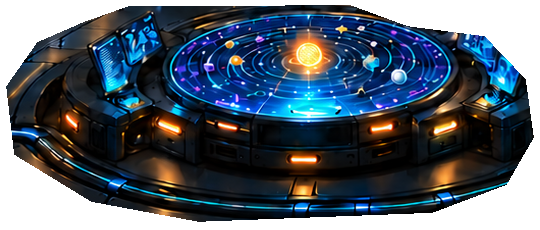
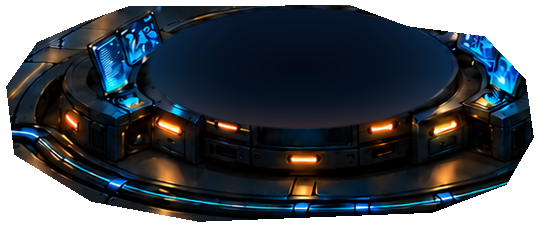
feat(kevin): full root overhaul with optical glass base asset and atmospheric hologram projection

Changed region(s): [[0.2667, 0.0304, 0.8593, 0.5783]]

diff --git a/webview-ui/src/ductor/starshipV10KevinMotion.ts b/webview-ui/src/ductor/starshipV10KevinMotion.ts
@@ -548,20 +548,44 @@ function drawSemanticMapContext(
   ctx.save();
   clipToKevinStarMap(ctx);
 
-  // Deep space concave dish backing: cleanly covers all static concentric circles across the entire dish
-  // Uses exact elliptical scaling matching dish geometry (158x62) with solid cosmic void
+  // 1. Holographic projector aura / floor emitter beam matching ship bridge lighting
   ctx.save();
-  ctx.translate(KEVIN_MAP_DISH.cx, KEVIN_MAP_DISH.cy);
-  ctx.scale(1, KEVIN_MAP_DISH.ry / KEVIN_MAP_DISH.rx);
-  const glass = ctx.createRadialGradient(0, 0, 5, 0, 0, KEVIN_MAP_DISH.rx);
-  glass.addColorStop(0, 'rgba(5, 16, 28, 0.98)');
-  glass.addColorStop(0.60, 'rgba(3, 10, 18, 0.97)');
-  glass.addColorStop(0.88, 'rgba(2, 7, 14, 0.96)');
-  glass.addColorStop(1.0, 'rgba(2, 6, 12, 0.92)');
-  ctx.fillStyle = glass;
+  ctx.globalCompositeOperation = 'screen';
+  
+  // Ambient cyan beam base
+  const beam = ctx.createRadialGradient(SUN_X, SUN_Y, 2, SUN_X, SUN_Y, 135);
+  beam.addColorStop(0, 'rgba(0, 215, 255, 0.16)');
+  beam.addColorStop(0.4, 'rgba(0, 160, 220, 0.08)');
+  beam.addColorStop(0.75, 'rgba(0, 80, 160, 0.03)');
+  beam.addColorStop(1, 'rgba(0, 20, 80, 0)');
+  ctx.fillStyle = beam;
   ctx.beginPath();
-  ctx.arc(0, 0, KEVIN_MAP_DISH.rx, 0, Math.PI * 2);
+  ctx.ellipse(SUN_X, SUN_Y, 145, 145 * ORBIT_Y_SCALE, 0, 0, Math.PI * 2);
   ctx.fill();
+
+  // Volumetric amber nebular clouds matching window black hole
+  const hazeCount = 6;
+  for (let h = 0; h < hazeCount; h += 1) {
+    const hAngle = h * (Math.PI * 2 / hazeCount) + timeSec * 0.02;
+    const hDist = 35 + (h % 3) * 25;
+    const hx = SUN_X + Math.cos(hAngle) * hDist;
+    const hy = SUN_Y + Math.sin(hAngle) * hDist * ORBIT_Y_SCALE;
+    const hr = 28 + (h % 2) * 16;
+    
+    const cloud = ctx.createRadialGradient(hx, hy, 2, hx, hy, hr);
+    if (h % 2 === 0) {
+      cloud.addColorStop(0, 'rgba(255, 185, 80, 0.10)');
+      cloud.addColorStop(0.6, 'rgba(230, 120, 40, 0.03)');
+    } else {
+      cloud.addColorStop(0, 'rgba(80, 220, 255, 0.08)');
+      cloud.addColorStop(0.6, 'rgba(20, 130, 210, 0.025)');
+    }
+    cloud.addColorStop(1, 'rgba(0,0,0,0)');
+    ctx.fillStyle = cloud;
+    ctx.beginPath();
+    ctx.ellipse(hx, hy, hr, hr * ORBIT_Y_SCALE, 0, 0, Math.PI * 2);
+    ctx.fill();
+  }
   ctx.restore();
 
   drawSemanticHazeLayer(ctx, timeSec, working);
